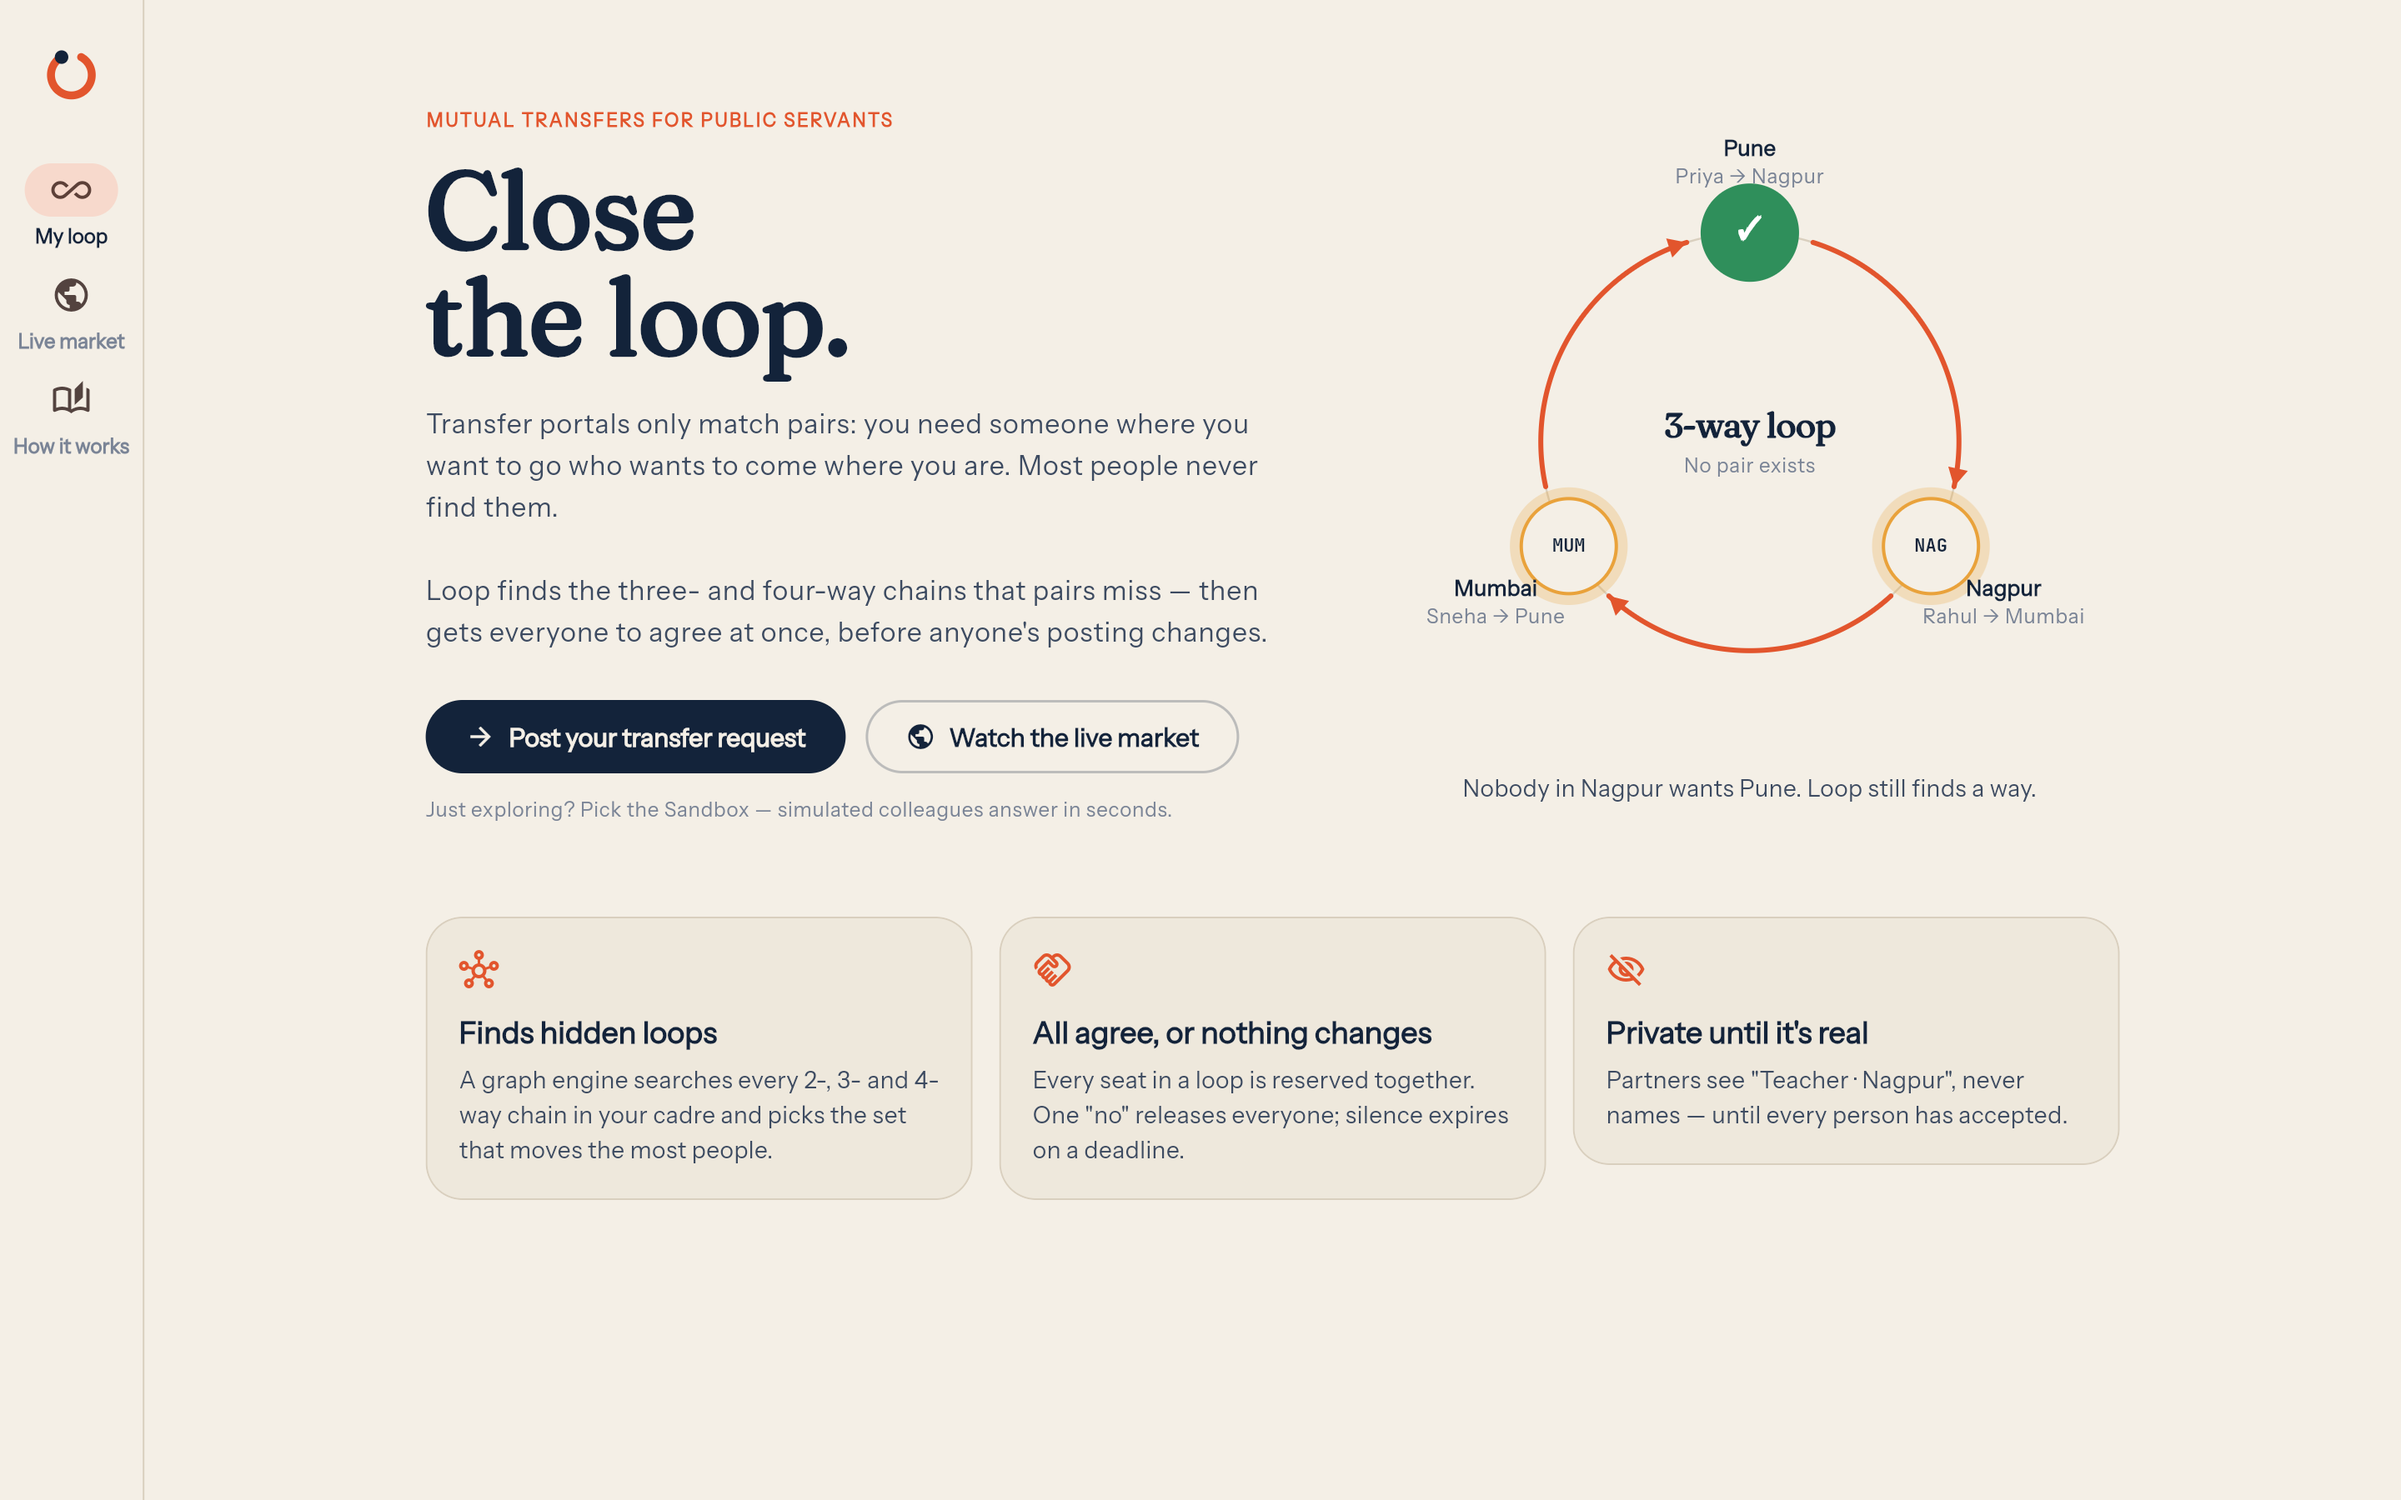
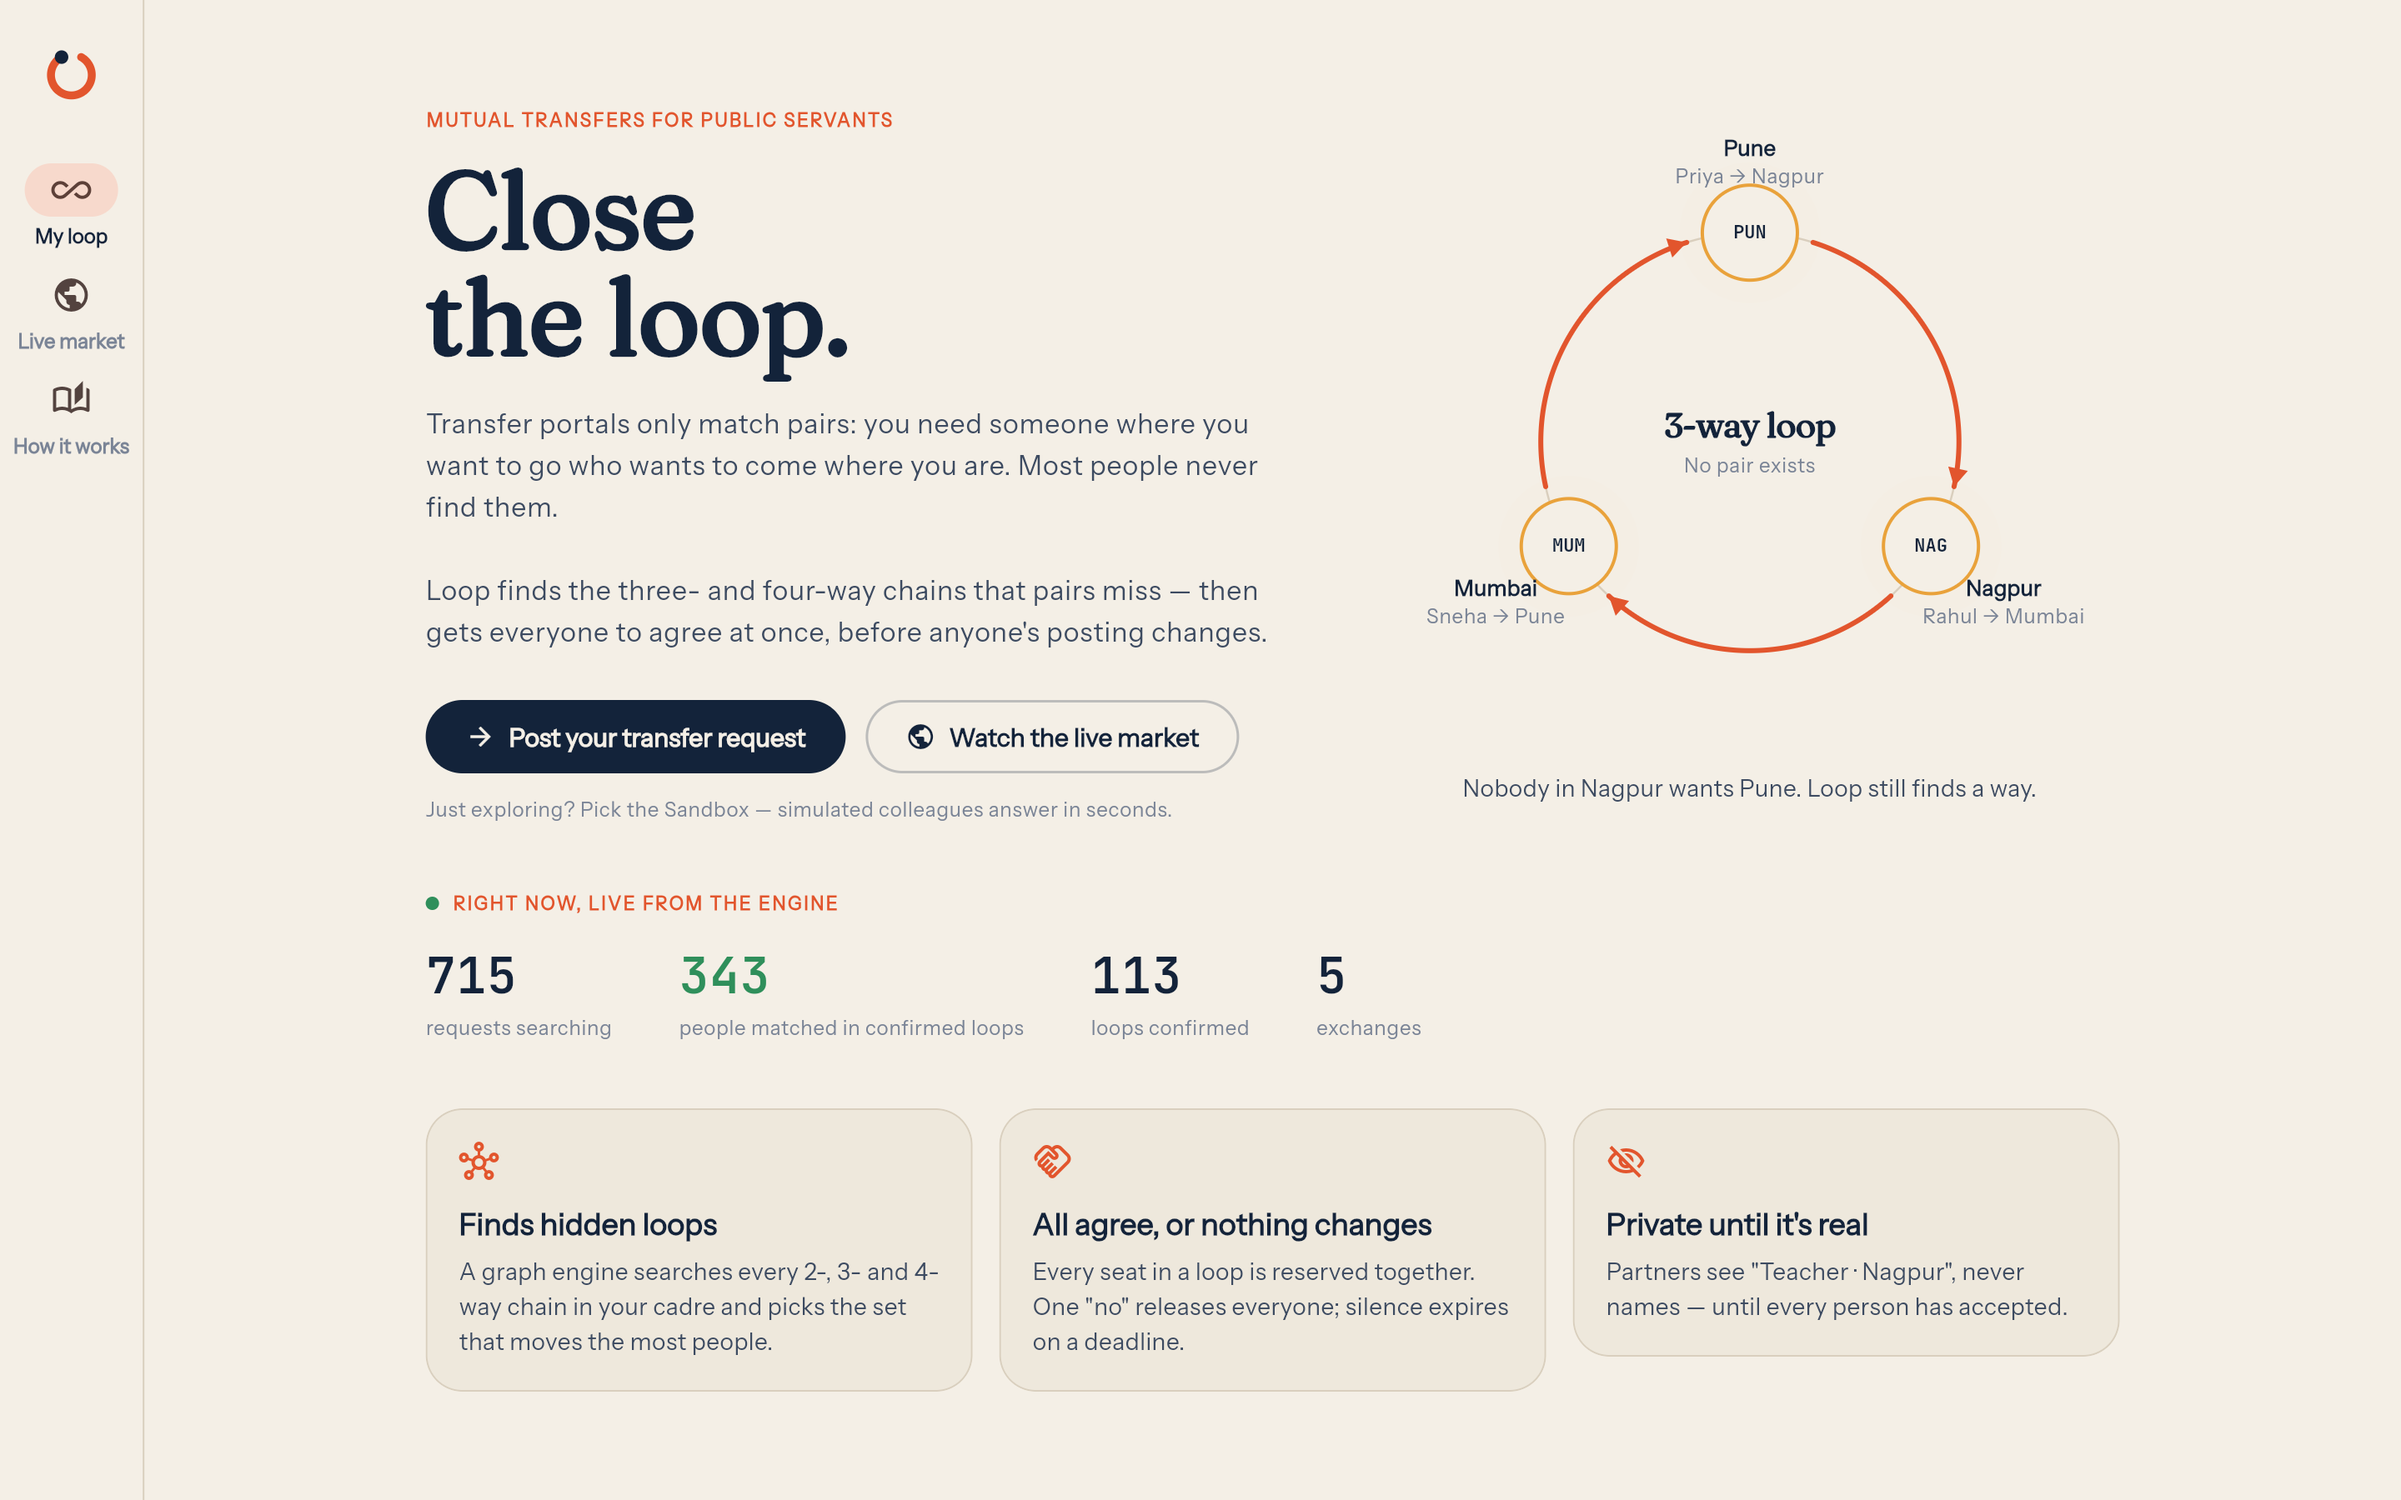
Keep simulated markets flowing across restarts
- Timer mode: the sweep re-schedules simulated answers lost when the
  server restarted, so loops never stay stuck waiting
- Every market pulse adds two newcomers that close a 3-way loop with a
  member already waiting, plus one ordinary arrival
- Screenshots of the full flow for the README

diff --git a/loop_server/lib/src/loop/services/bots.dart b/loop_server/lib/src/loop/services/bots.dart
@@ -148,36 +148,34 @@ abstract final class Bots {
     final places = await _placesFor(session, exchange);
     if (places.length < 3) return;
 
-    // The person two waiting colleagues need: X wants W, Q wants X's
-    // district. Someone posted at W who wants Q's district closes
-    // X -> (newcomer) -> Q -> X. Plus a couple of ordinary arrivals.
+    // Two newcomers who close a 3-way loop with someone already waiting:
+    // X (at P) wants W; Y arrives at W wanting V; Z arrives at V wanting P.
+    // Plus one ordinary arrival.
     final byId = {for (final p in places) p.id!: p};
-    final closer = await session.db.unsafeQuery(
+    final waiting = await session.db.unsafeQuery(
       r'''
-SELECT wx."placeId", q."currentPlaceId"
+SELECT x."currentPlaceId", w."placeId"
 FROM listing x
-JOIN wish wx ON wx."listingId" = x.id AND wx."radiusKm" = 0
-JOIN listing q ON q."exchangeId" = x."exchangeId" AND q.id <> x.id
- AND q."status" = 'active'
-JOIN wish wq ON wq."listingId" = q.id AND wq."radiusKm" = 0
- AND wq."placeId" = x."currentPlaceId"
+JOIN wish w ON w."listingId" = x.id AND w."radiusKm" = 0
 WHERE x."exchangeId" = @id AND x."status" = 'active'
-  AND wx."placeId" <> q."currentPlaceId"
-  AND wx."placeId" <> x."currentPlaceId"
 ORDER BY random()
 LIMIT 1''',
       parameters: QueryParameters.named({'id': exchangeId}),
     );
-    final specs = <(Place, List<(Place, int)>)>[
-      for (final row in closer)
-        if (byId[row[0]] != null && byId[row[1]] != null)
-          (byId[row[0] as int]!, [(byId[row[1] as int]!, 0)]),
-      for (var i = 0; i < 2; i++)
-        () {
-          final here = _pickPosting(places);
-          return (here, _pickWishes(places, here));
-        }(),
-    ];
+    final specs = <(Place, List<(Place, int)>)>[];
+    for (final row in waiting) {
+      final at = byId[row[0] as int];
+      final wanted = byId[row[1] as int];
+      if (at == null || wanted == null) continue;
+      final via = places
+          .where((p) => p.id != at.id && p.id != wanted.id)
+          .toList()[_rng.nextInt(places.length - 2)];
+      specs
+        ..add((wanted, [(via, 0)]))
+        ..add((via, [(at, 0)]));
+    }
+    final here = _pickPosting(places);
+    specs.add((here, _pickWishes(places, here)));
     await _createBotListings(session, exchange, specs);
     await session.db.unsafeExecute(
       r'''
@@ -198,6 +196,26 @@ WHERE id IN (
     );
     await LoopService.solveExchange(session, exchangeId, trigger: 'arrivals');
     await LoopService.postListingsChanged(session, exchangeId);
+  }
+
+  /// Timer mode only: replies scheduled in memory are lost when the server
+  /// restarts. Re-schedule any simulated answer that is overdue.
+  static Future<void> recoverPending(Session session) async {
+    final rows = await session.db.unsafeQuery(r'''
+SELECT s."loopId", s."position"
+FROM loop_seat s
+JOIN swap_loop l ON l.id = s."loopId"
+JOIN member m ON m.id = s."memberId"
+WHERE l."status" = 'proposed' AND s."response" = 'pending' AND m."isBot"
+  AND l."createdAt" < now() - interval '2 minutes'
+LIMIT 500''');
+    for (final r in rows) {
+      await Jobs.botReply(
+        r[0] as int,
+        r[1] as int,
+        Duration(seconds: 1 + _rng.nextInt(30)),
+      );
+    }
   }
 
   /// Sandbox only: adds simulated colleagues that close a 3-way loop with a

diff --git a/loop_server/test/integration/simulation_test.dart b/loop_server/test/integration/simulation_test.dart
@@ -1,0 +1,49 @@
+import 'package:loop_server/src/generated/protocol.dart';
+import 'package:loop_server/src/loop/services/bots.dart';
+import 'package:serverpod/serverpod.dart';
+import 'package:test/test.dart';
+
+import 'test_tools/serverpod_test_tools.dart';
+
+void main() {
+  withServerpod('Given a watched simulated market', (sessionBuilder, endpoints) {
+    test('then every pulse brings a loop to life', () async {
+      final session = sessionBuilder.build();
+      final names = ['Pune', 'Nagpur', 'Mumbai', 'Nashik', 'Thane', 'Satara'];
+      for (var i = 0; i < names.length; i++) {
+        await Place.db.insertRow(
+          session,
+          Place(
+            code: 'S-$i',
+            name: names[i],
+            state: 'Maharashtra',
+            point: GeographyPoint(latitude: 18.0 + i, longitude: 73.0 + i),
+            population: 100000 * (i + 1),
+          ),
+        );
+      }
+      final exchange = await Exchange.db.insertRow(
+        session,
+        Exchange(
+          slug: 'sim',
+          name: 'Simulated',
+          cadre: 'Teacher',
+          scope: 'Maharashtra',
+          state: 'Maharashtra',
+          description: 'test',
+          isSimulated: true,
+        ),
+      );
+      // A small market that is already stuck: nobody can form a loop.
+      await Bots.replenish(session, exchange, max: 4);
+
+      await Bots.pulse(session, exchange.id!);
+
+      final proposed = await SwapLoop.db.count(
+        session,
+        where: (t) => t.exchangeId.equals(exchange.id!),
+      );
+      expect(proposed, greaterThanOrEqualTo(1));
+    });
+  });
+}

diff --git a/loop_flutter/lib/screens/welcome_screen.dart b/loop_flutter/lib/screens/welcome_screen.dart
@@ -160,6 +160,8 @@ class _StoryRingState extends State<_StoryRing> {
         const SizedBox(height: 8),
         AnimatedSwitcher(
           duration: const Duration(milliseconds: 300),
+          // Fade the new line in without overlapping the old one.
+          layoutBuilder: (current, previous) => current ?? const SizedBox(),
           child: Text(
             done
                 ? 'Everyone said yes — now the transfer is real.'

diff --git a/loop_server/lib/src/loop/services/loop_service.dart b/loop_server/lib/src/loop/services/loop_service.dart
@@ -460,6 +460,7 @@ abstract final class LoopService {
   /// Periodic safety net: expires overdue loops whose deadline call was lost,
   /// tops up simulated markets, and re-solves every exchange.
   static Future<void> sweep(Session session) async {
+    if (!Jobs.durable) await Bots.recoverPending(session);
     final overdue = await SwapLoop.db.find(
       session,
       where: (t) =>
